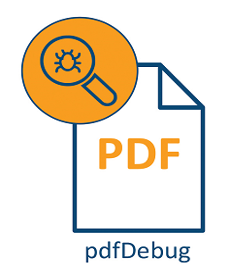
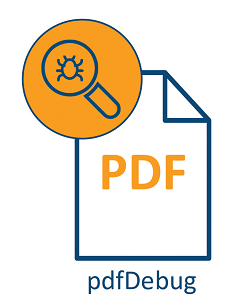
Additional Changes

diff --git a/CSS/main.css b/CSS/main.css
@@ -255,7 +255,7 @@ ol, ul {
 }
 .content_inner .next_text p {
     padding-top: 15px;
-    line-height: 19px;
+    line-height: 25px;
     font-size: 14px;
 
 }
@@ -265,10 +265,10 @@ ol, ul {
 .engine2{
     background: url(../images/pages/engine2RGB_1.jpg) no-repeat;
     background-size: auto;
-    width: 318px;
-    height: 197px;
+    width: 267px;
+    height: 229px;
     margin : auto;
-    margin-top: 20px;   
+    margin-top: 15px;   
 
 }
 .content_inner .nearer_position{
@@ -367,8 +367,8 @@ ol, ul {
 .pdf{
     background: url(../images/pages/pdfSweepRGB.jpg) no-repeat;
     background-size: auto;
-    width: 220px;
-    height: 240px
+    width: 237px;
+    height: 300px
 }
 .row .col-md-5 .pdf{
     margin-top: 15px;
@@ -377,7 +377,7 @@ ol, ul {
     font-size : 14px;
     list-style-type: circle;
     margin-left : 20px;
-    line-height: 19px;
+    line-height: 25px;
 }
 .remove_padding{
     padding-bottom : 0px !important;
@@ -402,8 +402,8 @@ ol, ul {
 .pdfinvoice{
     background: url(../images/pages/pdfInvoiceRGB2.jpg) no-repeat;
     background-size: auto;
-    width: 230px;
-    height: 255px;
+    width: 237px;
+    height: 300px;
 }
 .row .col-md-5 .pdfinvoice{
     margin-top: 15px;
@@ -418,8 +418,8 @@ ol, ul {
 .debugimg1{
     background: url(../images/pages/pdfDebugRGB2.png) no-repeat;
     background-size: auto;
-    width: 230px;
-    height: 275px;
+    width: 237px;
+    height: 308px;
 }
 .row .col-md-5 .debugimg1{
     margin-top: 15px;
@@ -434,8 +434,8 @@ ol, ul {
 .calligraphimg1{
     background: url(../images/pages/pdfCalligraphRGB1.png) no-repeat;
     background-size: auto;
-    width: 230px;
-    height: 275px;
+    width: 237px;
+    height: 316px;
 }
 .row .col-md-5 .calligraphimg1{
     margin-top: 15px;

diff --git a/main1.php b/main1.php
@@ -5,8 +5,8 @@
 <!--[if IE]><meta http-equiv="X-UA-Compatible" content="IE=edge"><![endif]-->
 <!--[if lt IE 8]><script src="https://ie7-js.googlecode.com/svn/version/2.1(beta4)/IE8.js"></script><![endif]-->
 <!--[if lt IE 9]><script type="text/javascript" src="/common/js/html5shiv.js"></script><![endif]-->
-<meta name="Keywords" content="itext,itext ライセンス,itext ダウンロード,pdf,pdf アーカイブ,pdf インボイス,pdf 請求書,pdf 文書作成," />
-<meta name="Description" content="iTextとは世界で最も使用されているPDFのオープンソースライブラリです。(java,c#,csharp)" />
+<meta name="Keywords" content="itext,itext7,itext ダウンロード,pdf,pdf エンジン,pdf インボイス,pdf アドオン,pdf 結合,pdf 拡張,pdf 抽出,pdf分割,pades,pdf 署名,agpl,pdf プラットフォーム,pdf 特殊文字" />
+<meta name="Description" content="itext7は、どんなpdfでもインタラクティブに操作することができ/>
 <!-- <link rel="stylesheet" type="text/css" href="./CSS/header.css" /> -->
 <!-- <link rel="stylesheet" type="text/css" href="./CSS/footer.css" /> -->
 

diff --git a/main2.php b/main2.php
@@ -5,8 +5,8 @@
 <!--[if IE]><meta http-equiv="X-UA-Compatible" content="IE=edge"><![endif]-->
 <!--[if lt IE 8]><script src="https://ie7-js.googlecode.com/svn/version/2.1(beta4)/IE8.js"></script><![endif]-->
 <!--[if lt IE 9]><script type="text/javascript" src="/common/js/html5shiv.js"></script><![endif]-->
-<meta name="Keywords" content="itext,itext ライセンス,itext ダウンロード,pdf,pdf アーカイブ,pdf インボイス,pdf 請求書,pdf 文書作成," />
-<meta name="Description" content="iTextとは世界で最も使用されているPDFのオープンソースライブラリです。(java,c#,csharp)" />
+<meta name="Keywords" content="itext,itext7,itext アップグレード,pdf,pdf 機密情報,pdf 安全,pdf 編集,itext ライセンス,pdf ライブラリ,pdf 請求書,pades,pdf 明細書,agpl,pdf プラットフォーム,pdf 生成" />
+<meta name="Description" content="最新版itext7で、pdfファイルの安全性を高めることができます。" />
 <!-- <link rel="stylesheet" type="text/css" href="./CSS/header.css" /> -->
 <!-- <link rel="stylesheet" type="text/css" href="./CSS/footer.css" /> -->
 

diff --git a/page2.php b/page2.php
@@ -1,11 +1,11 @@
-<?php include 'main.php';?>
+<?php include 'main1.php';?>
 <?php include('../../../common/include/header.php');?>
 
 <div class = "content">
 		<?php include 'submenu.php';?>
 	<div class = "content_inner orange">
 		<div class = "row">
-			<div class = "next_text next_text_position font_white col-md-7">
+			<div class = "next_text next_text_position font_white col-md-8">
 				<h1>世界が選んだPDFエンジン</h1>
 				<p>	
 				
@@ -13,7 +13,7 @@
 
 				</p>
 			</div>
-			<div class = "col-md-5" style= 'margin-bottom: 10px;'>
+			<div class = "col-md-4" style= 'margin-bottom: 10px;'>
 				<div class = "engine2">
 				</div>
 			</div>

diff --git a/page3.php b/page3.php
@@ -1,4 +1,4 @@
-<?php include 'main.php';?>
+<?php include 'main2.php';?>
 <?php include('../../../common/include/header.php');?>
 <?php include 'submenu.php'; ?>
 <div class = "content_inner orange">

diff --git a/page4.php b/page4.php
@@ -1,4 +1,4 @@
-<?php include 'main.php';?>
+<?php include 'main2.php';?>
 <?php include('../../../common/include/header.php');?>
 <?php include 'submenu.php'; ?>
 <div class = "content_inner orange">

diff --git a/page5.php b/page5.php
@@ -1,4 +1,4 @@
-<?php include 'main.php';?>
+<?php include 'main2.php';?>
 <?php include('../../../common/include/header.php');?>
 <?php include 'submenu.php'; ?>
 <div class = "content_inner orange">

diff --git a/page6.php b/page6.php
@@ -1,4 +1,4 @@
-<?php include 'main.php';?>
+<?php include 'main2.php';?>
 <?php include('../../../common/include/header.php');?>
 <?php include 'submenu.php'; ?>
 <div class = "content_inner orange">
